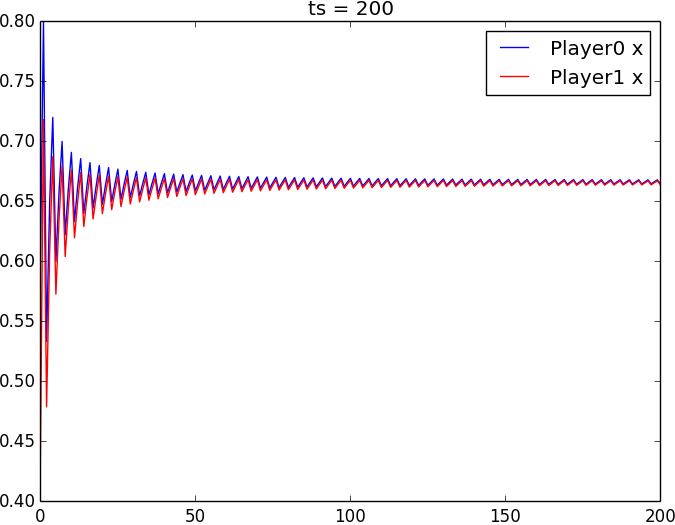
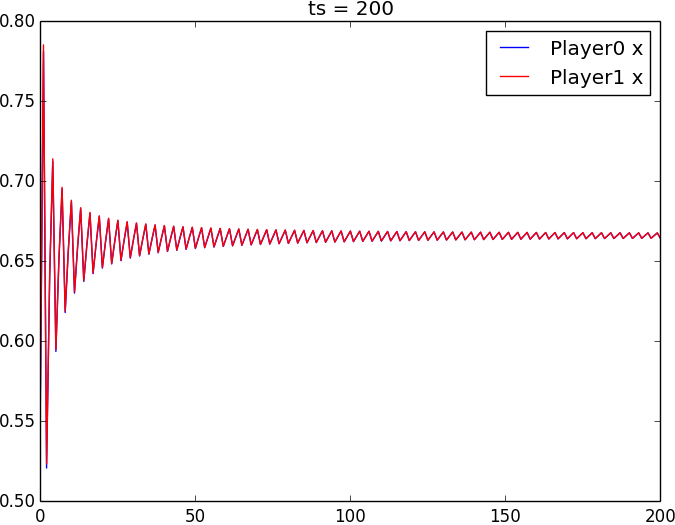
minor error fixed

Changed region(s): [[0.0, 0.061, 0.9956, 0.8838], [0.0, 0.9448, 0.0311, 0.9752]]

diff --git a/coordgame.py b/coordgame.py
@@ -1,4 +1,4 @@
-##########
+############
 ##Plot the list of x0 and x1
 
 import matplotlib.pyplot as plt
@@ -10,7 +10,7 @@ fig, ax = plt.subplots()
 players = [0,1] 
 gamename = '2coordgame'
 
-trials = 51
+trials = 201
 current_x0 = random.uniform(0,1)
 current_x1 = random.uniform(0,1)
 

diff --git a/Ficplay.py b/Ficplay.py
@@ -1,4 +1,4 @@
-##########
+############
 ##Plot the list of x0 and x1
 
 import matplotlib.pyplot as plt
